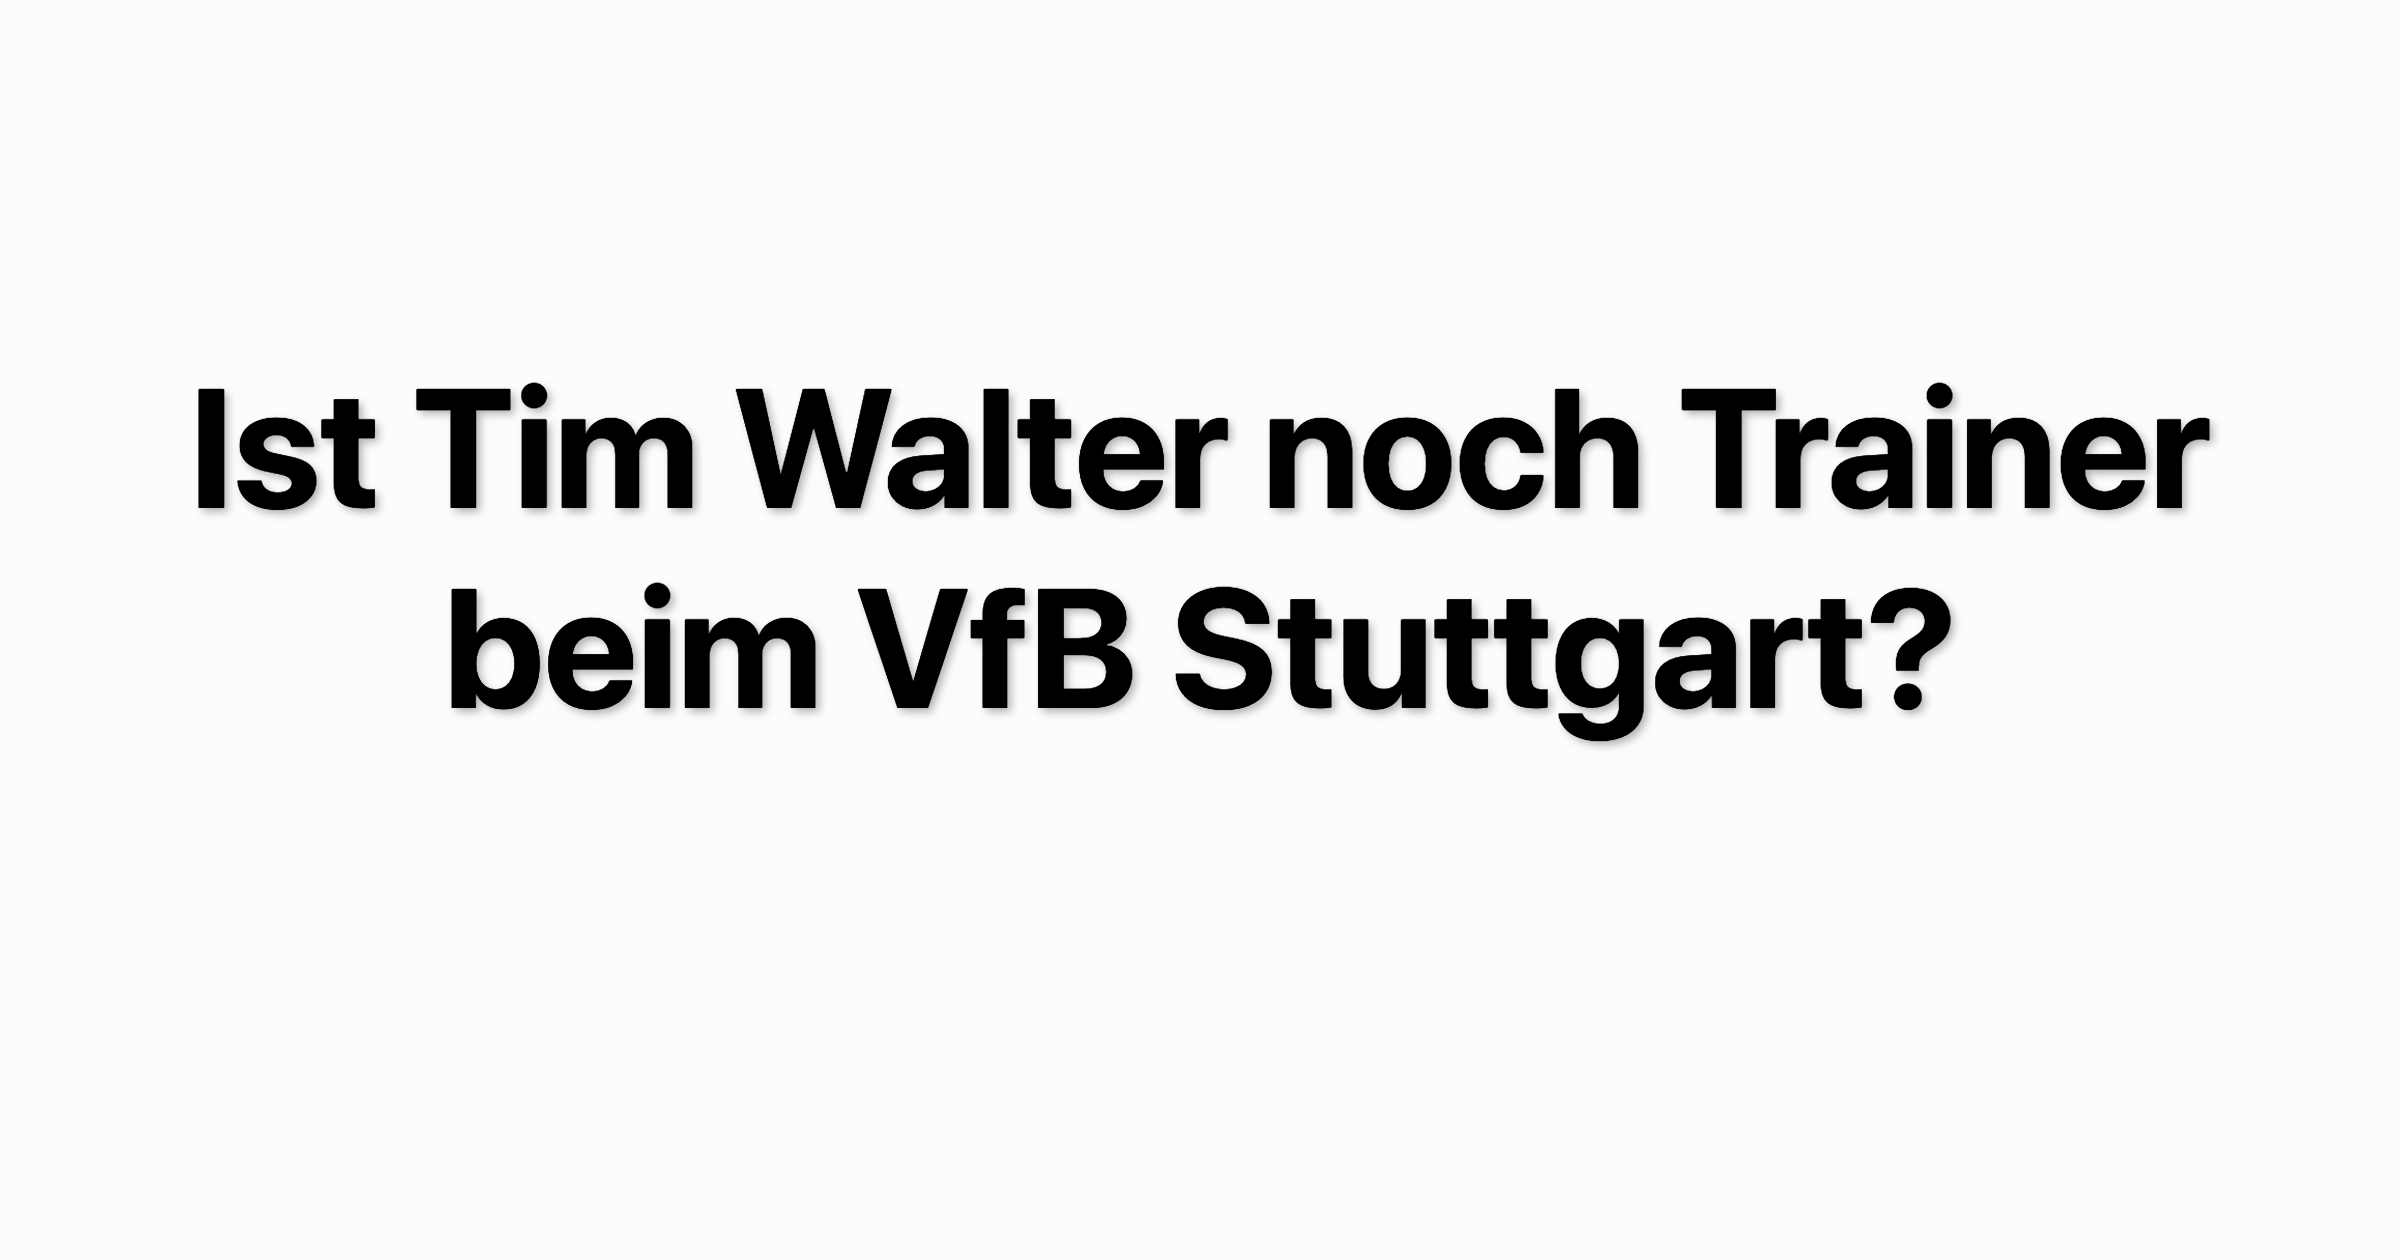
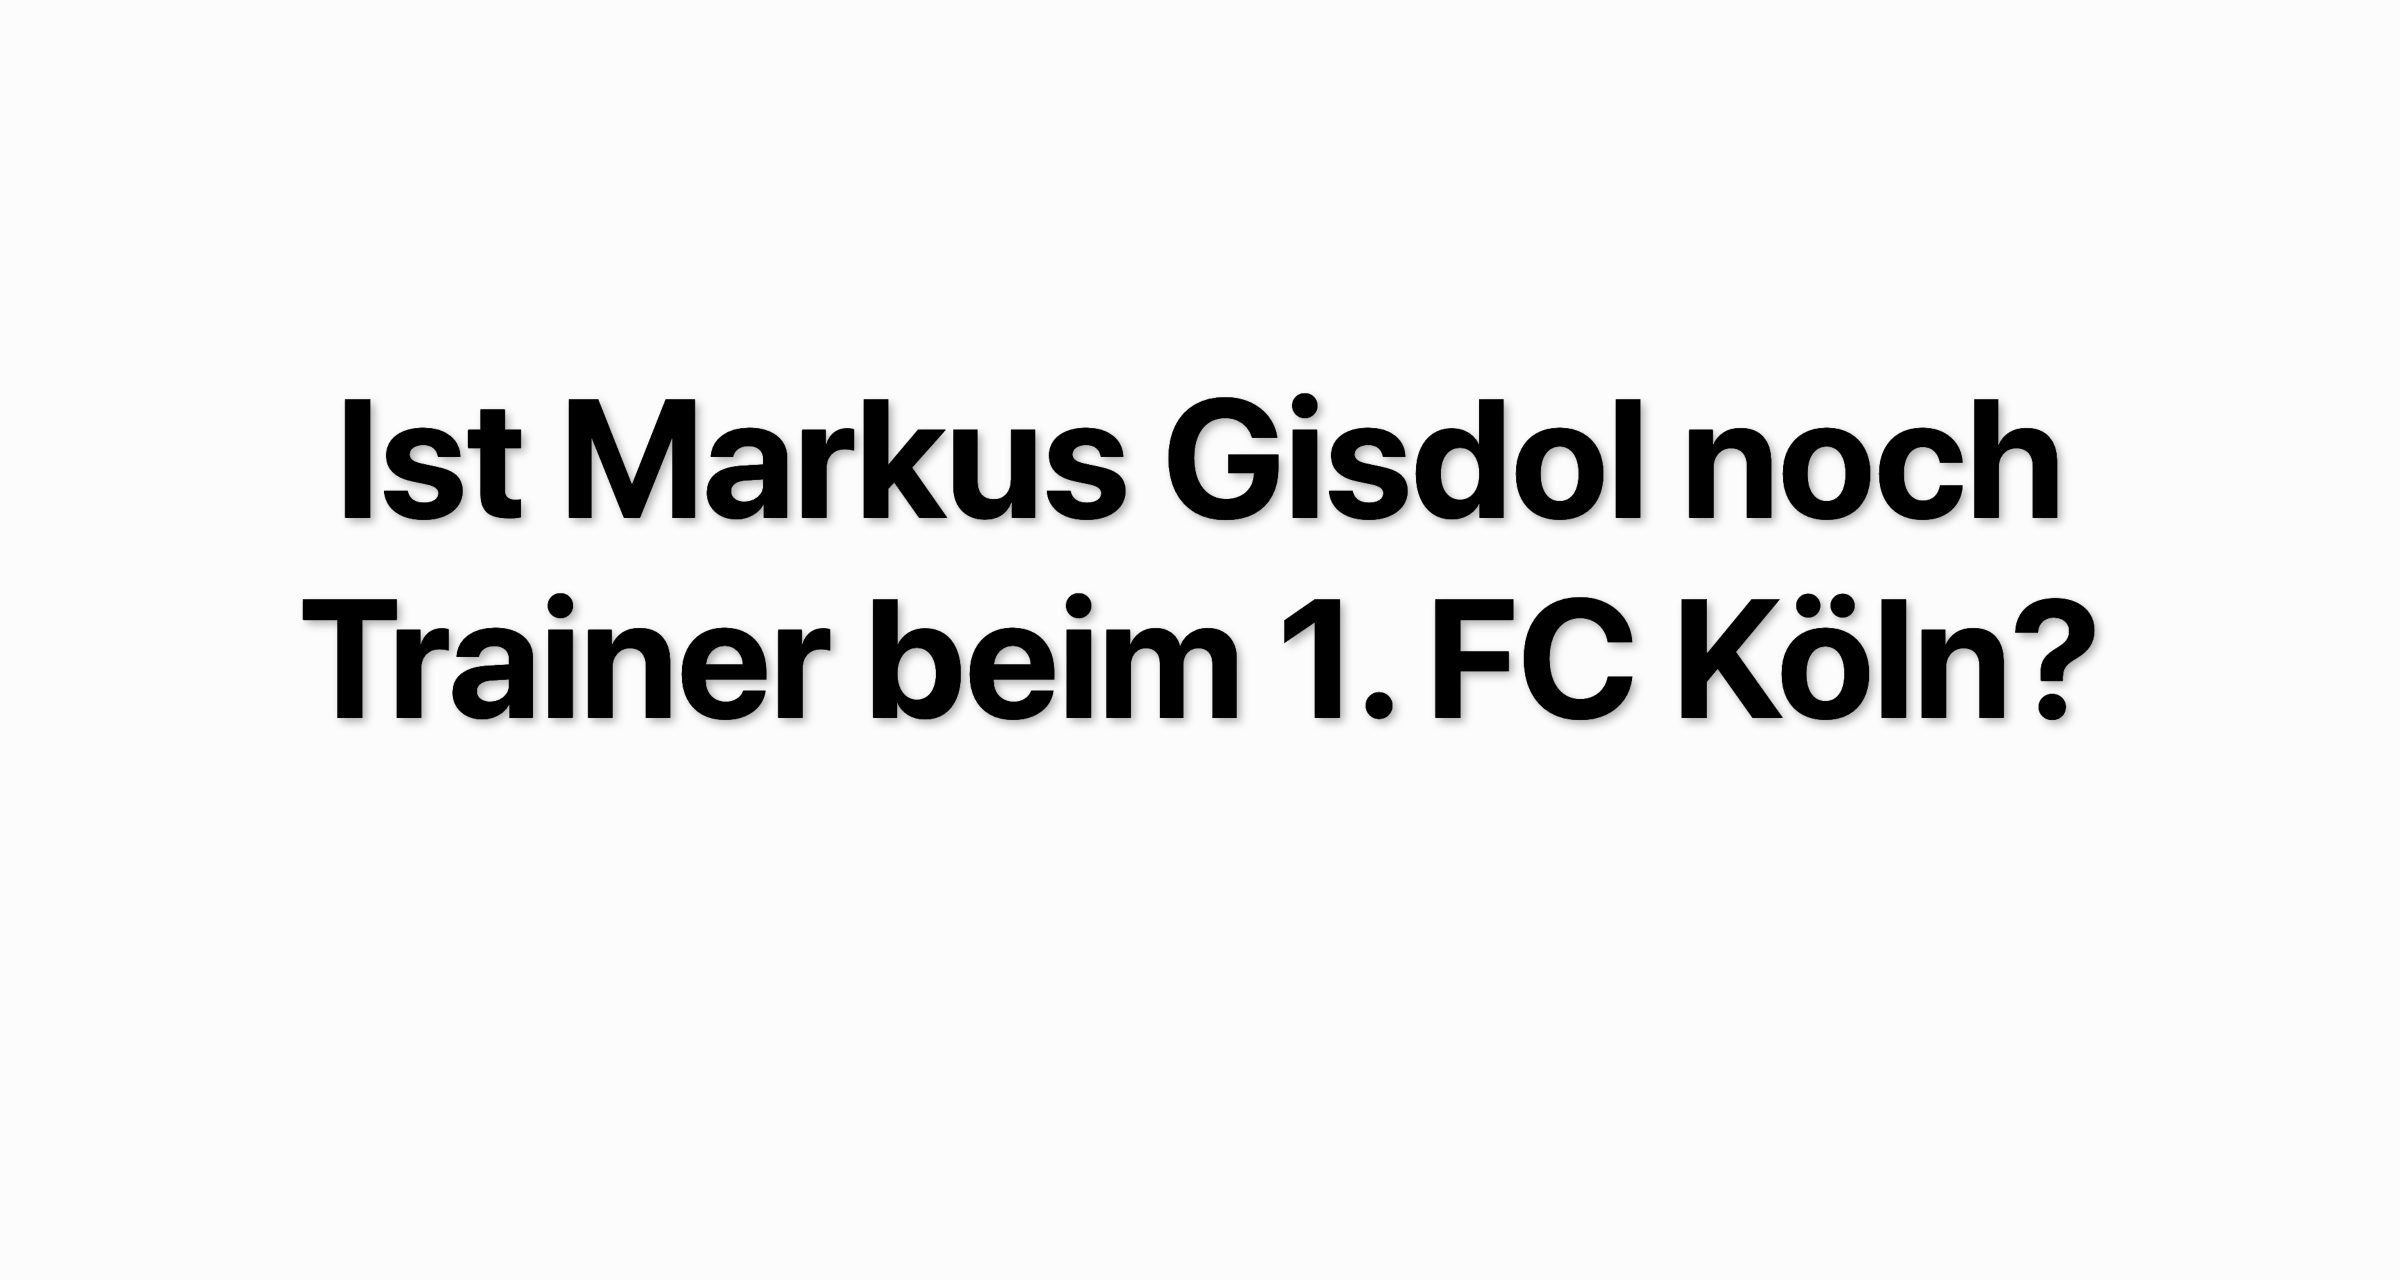
UPDATE: Open Graph Image

Changed region(s): [[0.0625, 0.3095, 0.9375, 0.4333], [0.125, 0.4643, 0.875, 0.5881]]

diff --git a/index.html b/index.html
@@ -12,7 +12,7 @@
 		<meta property="og:type" content="website" />
 		<meta
 			property="og:image"
-			content="https://istmarkusgisdolnochfctrainer.now.sh/open-graph.png?v1"
+			content="https://istmarkusgisdolnochfctrainer.now.sh/open-graph.png?v2"
 		/>
 		<meta
 			property="og:url"
@@ -27,7 +27,7 @@
 		/>
 		<meta
 			name="twitter:image"
-			content="https://istmarkusgisdolnochfctrainer.now.sh/open-graph.png?v1"
+			content="https://istmarkusgisdolnochfctrainer.now.sh/open-graph.png?v2"
 		/>
 		<meta name="theme-color" content="#d30029" />
 		<style>
